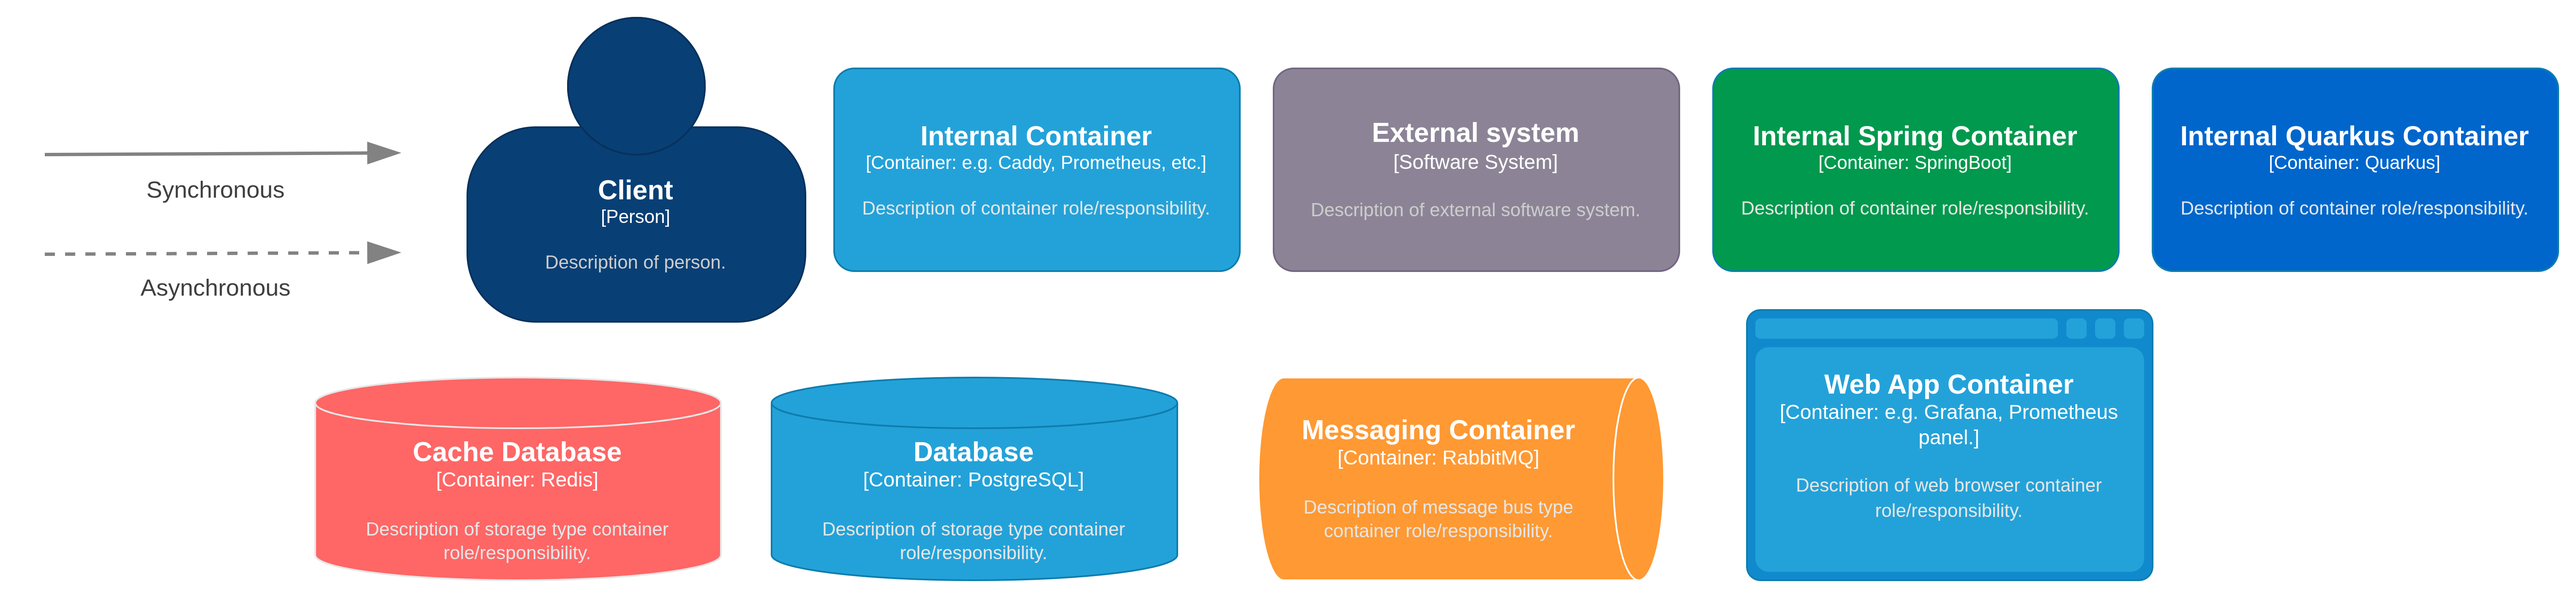
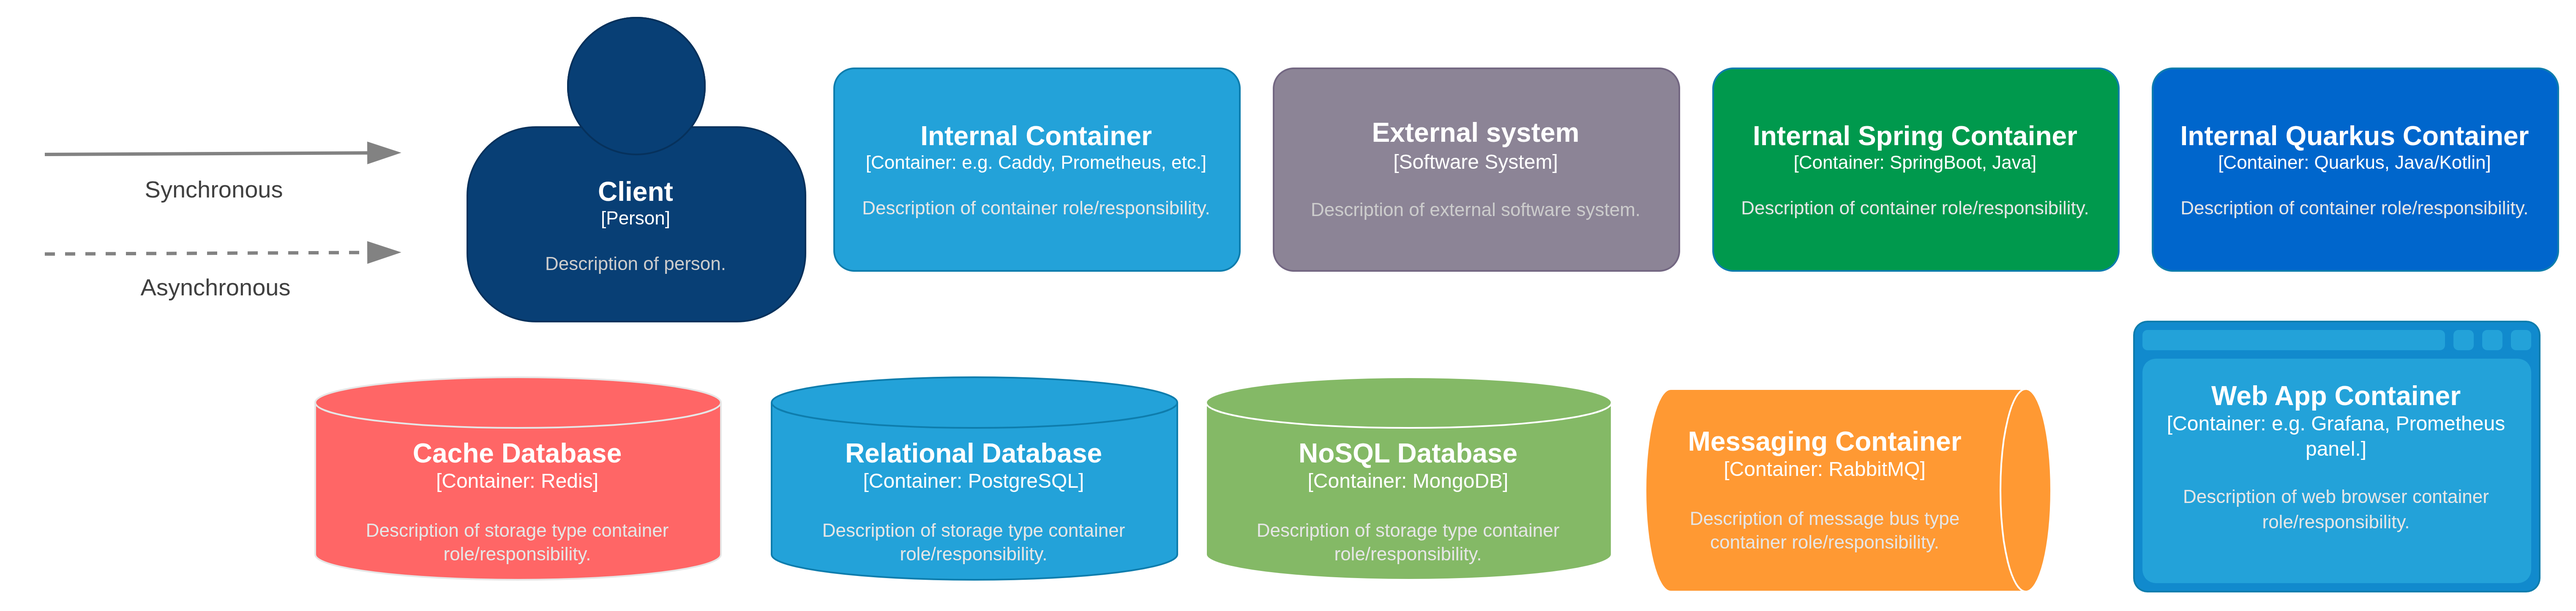
docs: update README

diff --git a/README.md b/README.md
@@ -56,8 +56,10 @@ E-Commerce platform
 
 - Caddy Server
 - Java 21
-- Spring Boot
-- Quarkus
+- Kotlin 2.3+
+- Spring Boot 4
+- Quarkus 3.36
+- REST/GraphQL
 - Docker
 - PostgreSQL + PgVector
 - MongoDB
@@ -136,7 +138,7 @@ The interactive documentation for each microservice will be available at:
 |--------------|---------------------------------------------|
 | Identity     | http://localhost:8080/swagger-ui/index.html |
 | Product      | http://localhost:8081/graphiql              |
-| Pricing      | http://localhost:8082/swagger-ui/index.html |
+| Pricing      | http://localhost:8082/q/swagger-ui          |
 | Order        | http://localhost:8083/swagger-ui/index.html |
 | Notification | http://localhost:8084/q/swagger-ui          |
 
@@ -160,6 +162,7 @@ Services will be available at:
 |---------------|--------------------------|
 | Identity      | https://yourdomain.com/identity    |
 | Product       | https://yourdomain.com/product     |
+| Pricing       | https://yourdomain.com/pricing     |
 | Order         | https://yourdomain.com/order     |
 | Notification | https://yourdomain.com/notification     |
 | Grafana       | https://grafana.yourdomain.com   |
@@ -170,14 +173,7 @@ Services will be available at:
 
 ## Use Cases
 
-### Customer use cases
-
-<img src="images/uml/customer_use_cases.png" width="400pt">
-
-### Management use cases
-
-<img src="images/uml/management_use_cases.png" width="400pt">
-
+<img src="images/uml/global_usecases.png" width="500pt">
 
 ## Architecture
 
@@ -203,12 +199,15 @@ Authentication is implemented as a distributed model with one dedicated authoriz
 
 The entire order flow is based on asynchronous communication, using **Spring AMQP** and **Quarkus Messaging RabbitMQ** to integrate the **RabbitMQ** Message Broker.
 
-All queues have a respective Dead Letter Queue named as `<queue-name>.dlq` (they aren't documented here).
+> [!NOTE]
+> All queues have a respective Dead Letter Queue named as `<queue-name>.dlq` (they aren't documented here).
 
 ### Exchanges
 
 | Name            | Description                             | Routing Keys                                                                    |
 |-----------------|-----------------------------------------|---------------------------------------------------------------------------------|
+| `product.topic` | Topic exchange to handle product events | `product.sku.created`, `product.sku.deleted`                                    |
+| `pricing.topic` | Topic exchange to handle pricing events | `pricing.checked`, `pricing.updated`                                            |
 | `order.topic`   | Topic exchange to handle order events   | `order.checked`, `order.created`, `order.canceled`, `order.dispatched`          | 
 | `payment.topic` | Topic exchange to handle payment events | `payment.generated`, `payment.confirmed`, `payment.timeout`, `payment.refunded` |
 | `dlx.direct`    | Direct exchange for dead letters queues | ...                                                                             |
@@ -229,6 +228,10 @@ All queues have a respective Dead Letter Queue named as `<queue-name>.dlq` (they
 | `payment.decrease_stock`                  | Decrease stock for outbound products     |
 | `payment.refund`                          | Refund all payments from order           |
 | `product.refund`                          | Refund all products from order           |
+| `product.update_price`                    | Update price of a product                |
+| `pricing.register_product`                | Register product mirror                  |
+| `pricing.delete_product`                  | Delete product mirror                    |
+| `pricing.apply_price`                     | Update checked price                     |
 | `notification.notify_payment_generated`   | Notify that a payment has been generated |
 | `notification.notify_payment_confirmed`   | Notify that payment has been made        |
 | `notification.notify_payment_timeout`     | Notify that payment exceded the TTL      |
@@ -237,10 +240,13 @@ All queues have a respective Dead Letter Queue named as `<queue-name>.dlq` (they
 | `notification.notify_canceled_order`      | Notify that order has been canceled      |
 
 
-![order_exchange.png](images/messaging/order_topic.png)
+![product exchange](images/messaging/product_topic.png)
 
-![payment_exchange.png](images/messaging/payment_topic.png)
+![pricing exchange](images/messaging/pricing_topic.png)
 
+![order exchange](images/messaging/order_topic.png)
+
+![payment exchange](images/messaging/payment_topic.png)
 
 
 ### Purchase confirmation
